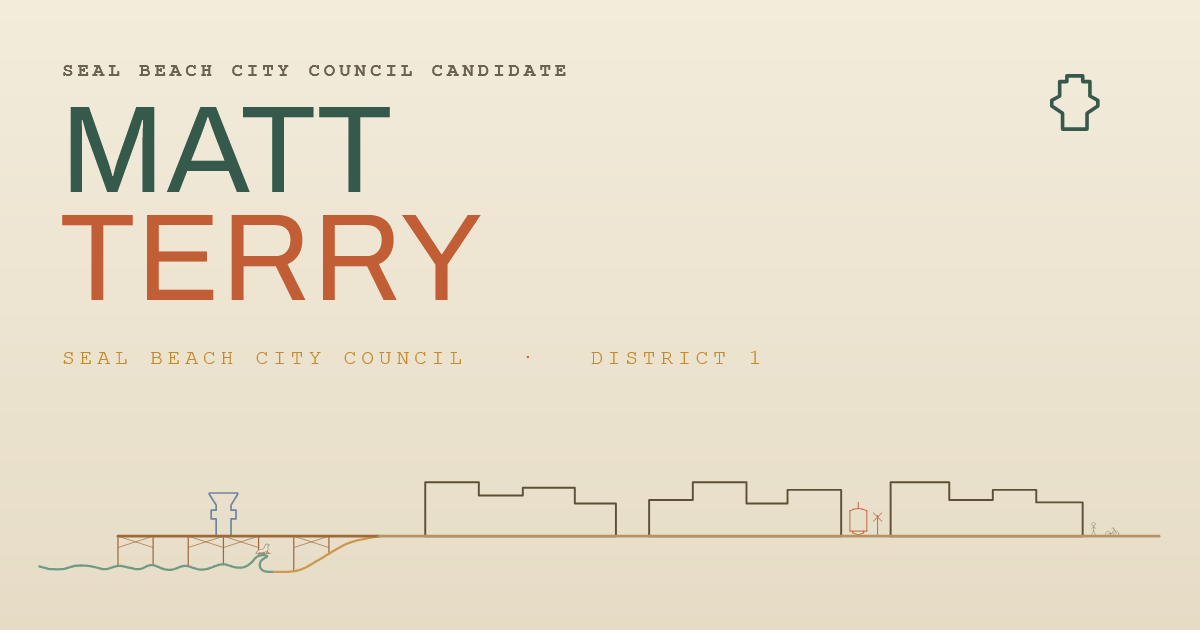
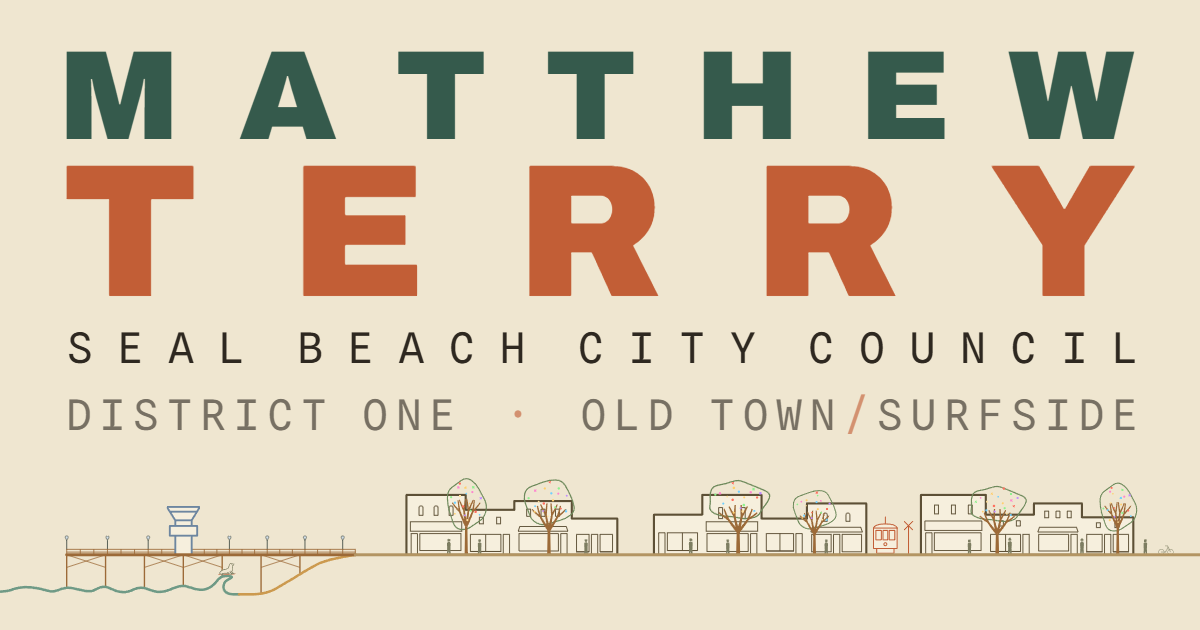
New share card (MATTHEW TERRY) + og:image dimension and alt tags
og-card.png regenerated: MATTHEW TERRY, DISTRICT ONE, and the Old Town /
Surfside line. 1200x630 confirmed.

index.html adds og:image:type/width/height/alt and twitter:image:alt --
dimension hints help platforms render the card without re-fetching, and the
alt text describes it for screen readers.

sketch-pano.js deliberately NOT updated in this commit: the re-export restores
the Red Car SVG <title>, which was removed by an approved change. Held for a
ruling.

Claude-Session: https://claude.ai/code/session_01HWCs1zx7W9E5W4usaCRLHL

diff --git a/index.html b/index.html
@@ -13,10 +13,15 @@
 <meta property="og:title" content="Matthew Terry — Seal Beach City Council, District One">
 <meta property="og:description" content="From the pier to PCH — keeping Seal Beach, Seal Beach. Get a yard sign.">
 <meta property="og:image" content="https://mattforsealbeach.com/og-card.png">
+<meta property="og:image:type" content="image/png">
+<meta property="og:image:width" content="1200">
+<meta property="og:image:height" content="630">
+<meta property="og:image:alt" content="Matthew Terry — Seal Beach City Council, District One. Old Town / Surfside.">
 <meta name="twitter:card" content="summary_large_image">
 <meta name="twitter:title" content="Matthew Terry — Seal Beach City Council, District One">
 <meta name="twitter:description" content="From the pier to PCH — keeping Seal Beach, Seal Beach.">
 <meta name="twitter:image" content="https://mattforsealbeach.com/og-card.png">
+<meta name="twitter:image:alt" content="Matthew Terry — Seal Beach City Council, District One. Old Town / Surfside.">
 <link rel="canonical" href="https://mattforsealbeach.com/">
 <meta property="og:url" content="https://mattforsealbeach.com/">
 <link rel="apple-touch-icon" href="assets/apple-touch-icon.png">
